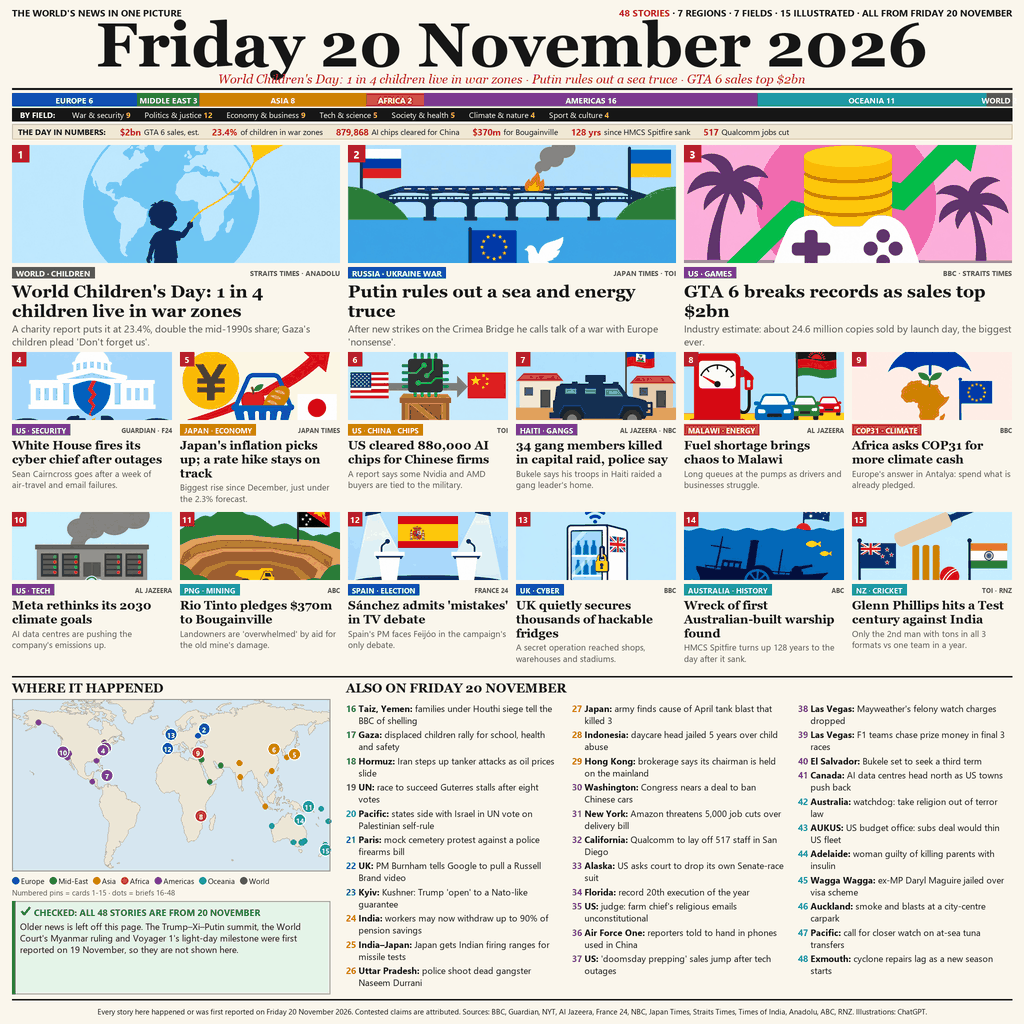
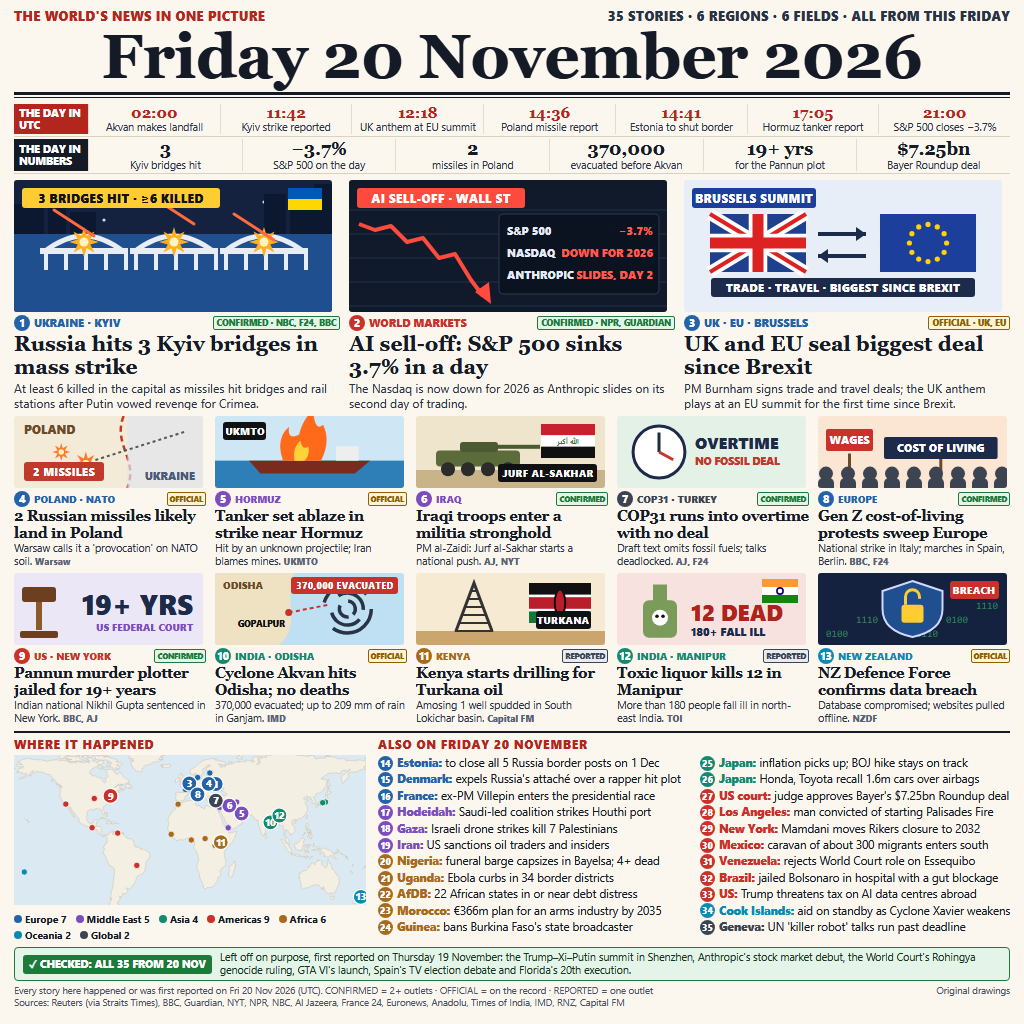
v2: the whole day of 20 November, 35 stories, infographic cards with sources, UTC timeline

diff --git a/main.py b/main.py
@@ -1,8 +1,8 @@
 """Deliver the finished front page of Friday 20 November 2026.
 
-The page (entry.png, 1024 x 1024) sums up the day's world news: 48 stories from
-7 regions, 15 of them on illustrated cards. It is committed in the repository;
-this program only copies it into the folder the harness reads.
+The page (entry.png, 1024 x 1024) sums up the whole day's world news: 35 stories
+from 6 regions, 13 of them on cards drawn as small infographics. It is committed in
+the repository; this program only copies it into the folder the harness reads.
 """
 import os
 import shutil

diff --git a/README.md b/README.md
@@ -4,11 +4,11 @@
 [![rank](https://make.fun/badge/news-image-20261120/0xfani/news-image-20261120/rank.svg)](https://make.fun/bounty/news-image-20261120/leaderboard?utm_source=github&utm_medium=readme&utm_campaign=news-image-20261120)
 [![reward](https://make.fun/badge/news-image-20261120/0xfani/news-image-20261120/reward.svg)](https://make.fun/bounty/news-image-20261120?utm_source=github&utm_medium=readme&utm_campaign=news-image-20261120)
 
-One picture of Friday 20 November 2026: the day's world news on a single 1024×1024 front page. A big dated masthead, a red standfirst naming the leads, region and field bars, the day in numbers, 15 illustrated story cards (3 leads + 12) with minimal flat pictograms and per-card source labels, a world map with numbered pins, 33 numbered "Also on" briefs (48 stories in all, 7 regions, 7 fields), and a green date-check box stating that every story happened or was first reported on 20 November 2026.
+One picture of Friday 20 November 2026: the whole day's world news on a single 1024×1024 front page, built after the day had ended everywhere. A big dated masthead, a "THE DAY IN UTC" strip of seven timed events, a "THE DAY IN NUMBERS" strip, 3 lead cards (Russia's strike on three Kyiv bridges, the AI sell-off that took the S&P 500 down 3.7%, the biggest UK–EU deal since Brexit) and 10 smaller cards, each drawn as a flat infographic that carries its own facts (a chart with figures, a landfall map, counters, flags) and tagged CONFIRMED, OFFICIAL or REPORTED with its sources. Below them a world map with numbered pins, 22 numbered "Also on" briefs (35 stories in all, 6 regions, 6 fields), and a green box stating that every story is from 20 November and naming the 19 November stories left off on purpose.
 
-Stories were gathered from the RSS feeds of BBC, Guardian, NYT, Al Jazeera, France 24, NBC, Japan Times, Straits Times, Times of India, Anadolu, ABC and RNZ, keeping only items first published on 20 November in UTC. Stories already reported on 19 November (the Trump–Xi–Putin summit, the World Court's Myanmar ruling, Voyager 1's light-day milestone) are left out and named in the date-check box.
+Stories were gathered from the RSS feeds of BBC, Guardian, NYT, NPR, NBC, Al Jazeera, France 24, Euronews, Anadolu, Straits Times (Reuters), Times of India, RNZ and Capital FM, pulled on 21 November and kept only when first published on 20 November in UTC; Cyclone Akvan's landfall figures were checked against India's weather office (IMD) as reported that day. Stories first reported on 19 November (the Trump–Xi–Putin summit, Anthropic's market debut, the World Court's Rohingya ruling, GTA VI's launch) are named in the green box and not shown.
 
-The repository holds the finished page as `entry.png`; `main.py` copies it to the output folder. No network, no randomness: every run writes identical bytes.
+The page is drawn as HTML and inline SVG and rendered with headless Chrome. The repository holds the finished page as `entry.png`; `main.py` copies it to the output folder. No network, no randomness: every run writes identical bytes.
 
 ## Run it
 
